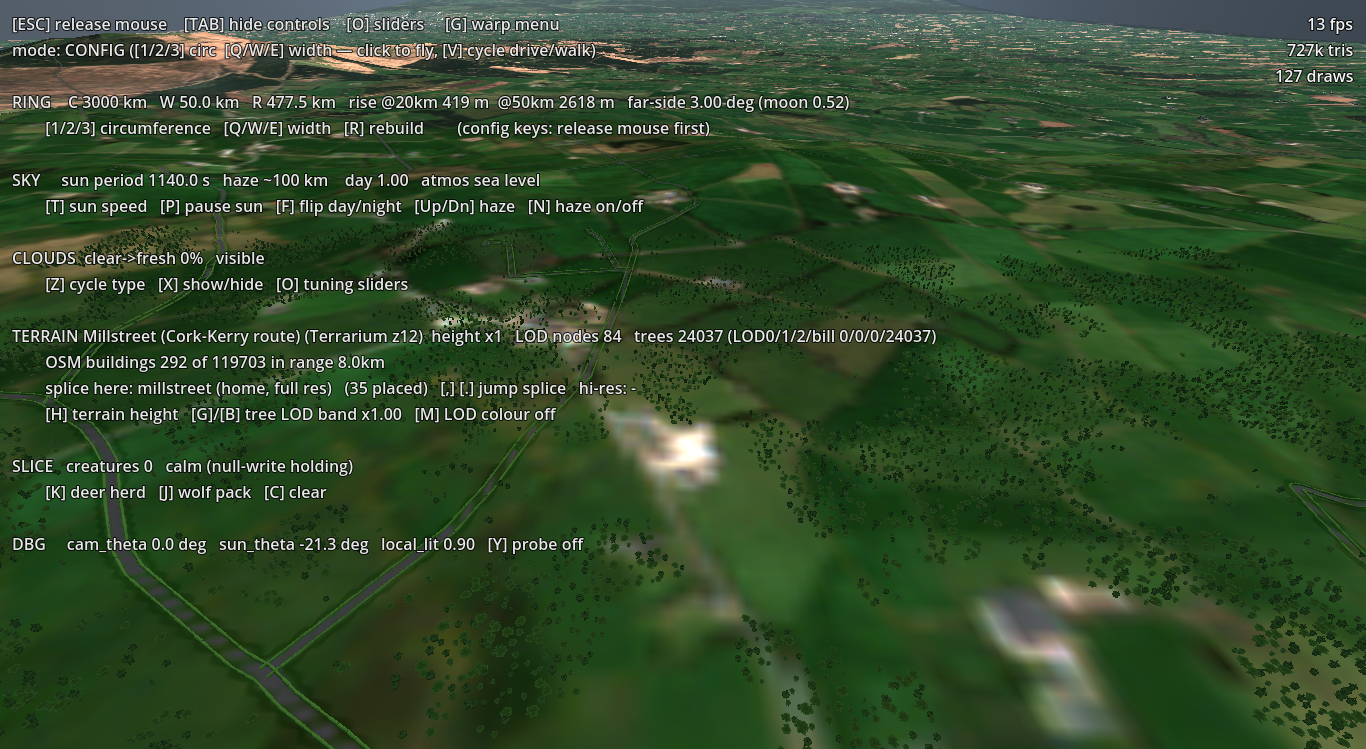
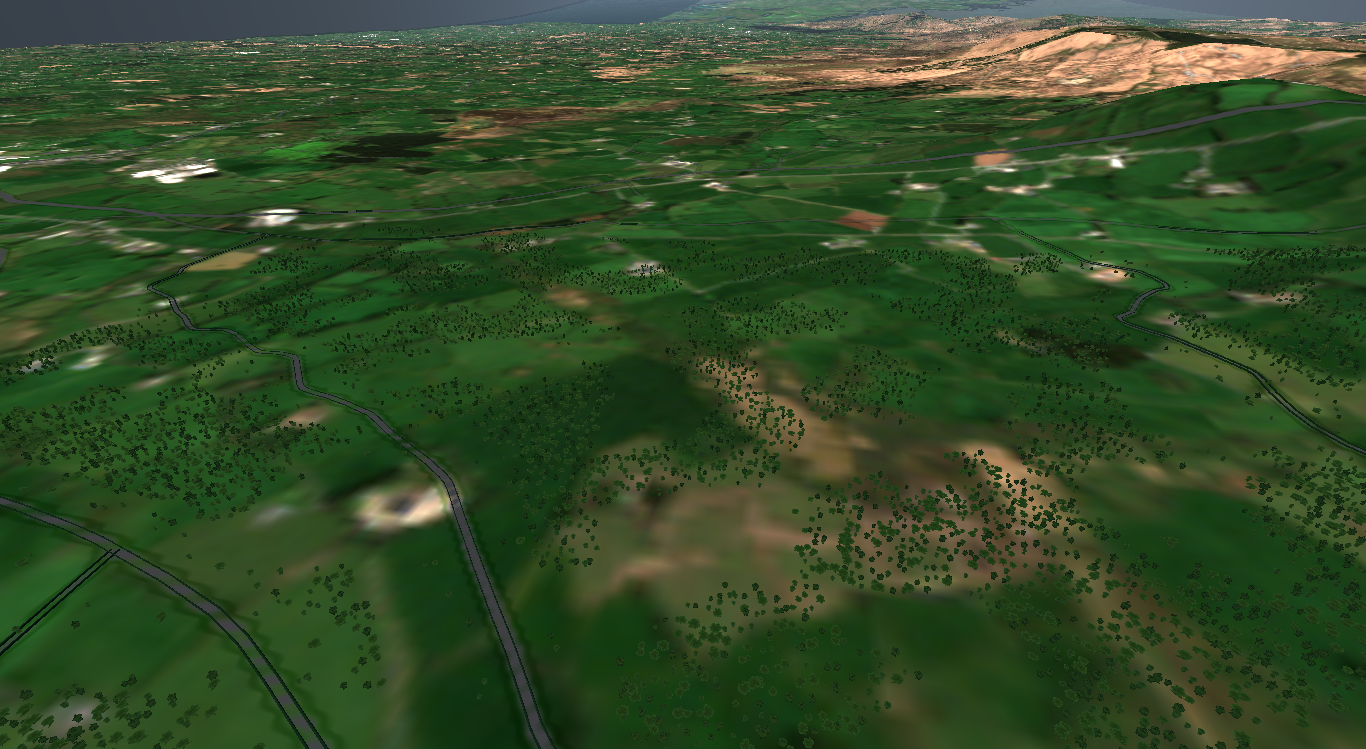
fix(roads): hedgerows verified by screenshot; three defects found and fixed
--shots now walks the centrelines to frame ON a road. The old framing used the
patch centre, which is open country and showed no hedge at all -- it verified
nothing, which is worse than not looking.

Working: the ribbon follows the carriageway, sits both sides, runs continuously.

1. NOTCHED EVERY 11m. _hedge_span drew width and height from a per-span random,
   so span A's end and span B's start disagreed at the point they share. Now a
   smooth function of position: two spans meeting compute the same dimensions
   there by construction.
2. THE TEXTURE NEVER LOADED. A .jpg dropped into the project has no .import
   file until the editor has been opened, so ResourceLoader.exists() was false
   and it fell through to the procedural fallback -- looking like a working
   hedge with a poor texture rather than a texture that was never found. Now
   read as raw bytes from a .dat, the convention the DEM drapes already use.
3. STANDING 6-8m OFF THE CENTRELINE, reading as a field boundary across a wide
   verge rather than hedge against a boreen. Now 3.9m.

Not verified: junctions. None fell in frame, and each road lays its own ribbon
with nothing merging them, so they almost certainly interpenetrate. Queued.

diff --git a/docs/patch-review.md b/docs/patch-review.md
@@ -185,6 +185,31 @@ place. Which is the argument for this review existing, and for re-running it whe
 (`salar_uyuni`, `palawan`, `guri_dam`). Patches whose statistics agreed with their authored values
 were neither imaged nor changed.
 
+## Hedgerow verification by screenshot (2026-08-08)
+
+Shot with `-- --shots millstreet`, which now walks the centrelines to frame ON a road — the patch
+centre is open country and showed no hedge at all, so the first framing verified nothing.
+
+**Working:** the ribbon follows the carriageway, sits on both sides, and runs continuously to the
+horizon. The core approach is sound.
+
+**Three defects, all fixed:**
+
+1. **Notched every 11 m.** `_hedge_span` drew width and height from a per-span random, so span A's
+   end vertices and span B's start vertices disagreed at the point they share. Now a smooth
+   function of position, so two spans meeting at a point compute the same dimensions there by
+   construction. Still varies along the run; no longer breaks.
+2. **The texture never loaded.** A `.jpg` dropped into the project has no `.import` file until the
+   Godot editor has been opened, so `ResourceLoader.exists()` returned false and it fell through to
+   the procedural fallback — which looked like a working hedge with a poor texture rather than a
+   texture that was never found. Now loaded as raw bytes from a `.dat`, the same convention the DEM
+   drapes already use to sidestep the importer.
+3. **Standing 6–8 m off the centreline**, which read as a field boundary across a wide verge rather
+   than hedge tight against a boreen. Now 3.9 m.
+
+**Not verified:** junctions. No crossroads fell in frame, and since each road lays its own ribbon
+with nothing merging them, they almost certainly interpenetrate where two meet. Queued separately.
+
 ## Open
 
 - Re-run after the 8192 refetch completes; several previews are still the old canvas.

diff --git a/TASKS.md b/TASKS.md
@@ -19,9 +19,12 @@ Rules:
 - [x] **Image-review patches 11–20** — same.
 - [x] **Image-review patches 21–30** — same.
 - [x] **Image-review patches 31–39** — same.
-- [ ] **Verify hedgerows by screenshot** (`-- --shots <patch>`). Do they apply at all off the home
+- [x] **Verify hedgerows by screenshot** (`-- --shots <patch>`). Do they apply at all off the home
       patch; do junctions mesh or interpenetrate; do they follow the ground or float; do they sit on
       the correct side of the carriageway. Read the PNGs, do not assume.
+- [ ] **Hedge junctions.** Verified straight runs only -- no junction happened to be in frame.
+      Where two roads meet, each lays its own ribbon and nothing merges them, so they almost
+      certainly interpenetrate. Shoot a crossroads specifically.
 - [ ] **Hedge variety.** One profile and one texture everywhere is wrong. Needs: type per biome
       (Irish blackthorn bank vs Mediterranean dry-stone-and-scrub vs tropical none), height/width
       variation along a run, gaps and gateways, and the odd wall instead of hedge.
